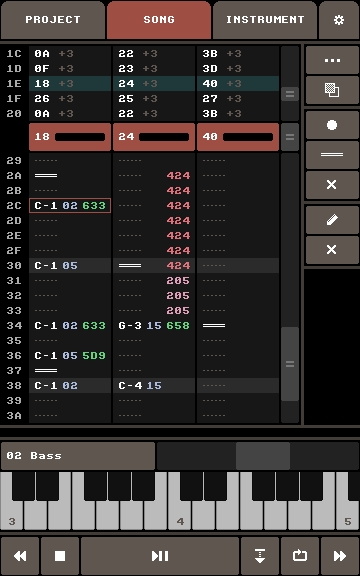
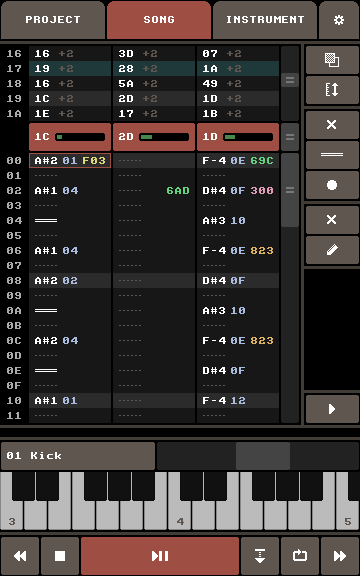
re-arrange buttons in song and instr view

diff --git a/src/song_view.cpp b/src/song_view.cpp
@@ -655,6 +655,17 @@ void draw() {
                 }
             }
         }
+        gui::disabled(!(len > 1 && pos < len));
+        if (gui::button(gui::Icon::DeleteRow)) {
+            for (auto& order : g_song.song_order) {
+                order[pos] = {};
+                std::rotate(order.begin() + pos, order.begin() + pos + 1, order.end());
+            }
+            --len;
+            if (pos > 0 && g_song.song_loop > pos) --g_song.song_loop;
+            if (g_song.song_loop >= len) g_song.song_loop = len - 1;
+            if (pos >= len) --pos;
+        }
 
         gui::disabled(!(len < gt::MAX_SONG_ROWS && pos <= len));
         if (gui::button(gui::Icon::AddRowAbove)) {
@@ -673,17 +684,6 @@ void draw() {
             }
             if (g_song.song_loop >= pos) ++g_song.song_loop;
             ++len;
-        }
-        gui::disabled(!(len > 1 && pos < len));
-        if (gui::button(gui::Icon::DeleteRow)) {
-            for (auto& order : g_song.song_order) {
-                order[pos] = {};
-                std::rotate(order.begin() + pos, order.begin() + pos + 1, order.end());
-            }
-            --len;
-            if (pos > 0 && g_song.song_loop > pos) --g_song.song_loop;
-            if (g_song.song_loop >= len) g_song.song_loop = len - 1;
-            if (pos >= len) --pos;
         }
         gui::disabled(g_song.song_loop == g_cursor_song_row);
         if (gui::button(gui::Icon::JumpBack)) {
@@ -723,6 +723,7 @@ void draw() {
     // pattern edit
     static std::array<gt::Pattern, 3> pattern_copy_buffer = {};
     static uint8_t                    pattern_copy_flags  = 0;
+    enum { PCF_NOTE = 1, PCF_COMMAND = 2 };
 
     gt::Pattern& patt = g_song.patterns[patt_nums[g_cursor_chan]];
     if (g_edit_mode == EditMode::Pattern && g_cursor_pattern_row < patt.len) {
@@ -735,11 +736,11 @@ void draw() {
 
                 for (int i = 0; i < src.len; ++i) {
                     if (g_cursor_pattern_row + i >= dst.len) break;
-                    if (pattern_copy_flags & 1) {
+                    if (pattern_copy_flags & PCF_NOTE) {
                         dst.rows[g_cursor_pattern_row + i].note  = src.rows[i].note;
                         dst.rows[g_cursor_pattern_row + i].instr = src.rows[i].instr;
                     }
-                    if (pattern_copy_flags & 2) {
+                    if (pattern_copy_flags & PCF_COMMAND) {
                         dst.rows[g_cursor_pattern_row + i].command = src.rows[i].command;
                         dst.rows[g_cursor_pattern_row + i].data    = src.rows[i].data;
                     }
@@ -802,21 +803,28 @@ void draw() {
 
         gt::PatternRow& row  = patt.rows[g_cursor_pattern_row];
         // note edit buttons
-        if (gui::button(gui::Icon::Record, g_recording)) {
-            g_recording = !g_recording;
-        }
-        if (gui::button(row.note != gt::KEYOFF ? "\x0a\x0b\x0c" : "\x0d\x0e\x0f")) {
-            row.note  = row.note != gt::KEYOFF ? gt::KEYOFF : gt::KEYON;
-            row.instr = 0;
-        }
         gui::disabled(row.note == gt::REST);
         if (gui::button(gui::Icon::X)) {
             row.note  = gt::REST;
             row.instr = 0;
         }
         gui::disabled(false);
+        if (gui::button(row.note != gt::KEYOFF ? "\x0a\x0b\x0c" : "\x0d\x0e\x0f")) {
+            row.note  = row.note != gt::KEYOFF ? gt::KEYOFF : gt::KEYON;
+            row.instr = 0;
+        }
+        if (gui::button(gui::Icon::Record, g_recording)) {
+            g_recording = !g_recording;
+        }
         gui::separator();
+
         // command edit buttons
+        gui::disabled(row.command == 0);
+        if (gui::button(gui::Icon::X)) {
+            row.command = 0;
+            row.data = 0;
+        }
+        gui::disabled(false);
         if (gui::button(gui::Icon::Edit)) {
             command_edit::init(command_edit::Location::Pattern, row.command, row.data, [&row](uint8_t cmd, uint8_t data) {
                 row.command = cmd;
@@ -830,13 +838,6 @@ void draw() {
             piano::set_instrument(row.data);
             instrument_view::select_table(row.command - gt::CMD_SETWAVEPTR);
         }
-
-        gui::disabled(row.command == 0);
-        if (gui::button(gui::Icon::X)) {
-            row.command = 0;
-            row.data = 0;
-        }
-        gui::disabled(false);
         gui::separator();
 
 
@@ -878,7 +879,7 @@ void draw() {
         // copy all
         if (gui::button(gui::Icon::Copy)) {
             copy_to_pattern_buffer();
-            pattern_copy_flags = 3;
+            pattern_copy_flags = PCF_NOTE | PCF_COMMAND;
         }
         // delete
         if (gui::button(gui::Icon::X)) {
@@ -891,6 +892,23 @@ void draw() {
             }
         }
         gui::separator();
+
+        // copy notes
+        if (gui::button(gui::Icon::Copy)) {
+            copy_to_pattern_buffer();
+            pattern_copy_flags = PCF_NOTE;
+        }
+        // delete notes
+        if (gui::button(gui::Icon::X)) {
+            for (int c = mark_chan_min; c <= mark_chan_max; ++c) {
+                gt::Pattern& patt = g_song.patterns[patt_nums[c]];
+                for (int i = mark_row_min; i <= mark_row_max; ++i) {
+                    if (i >= patt.len) break;
+                    patt.rows[i].note  = gt::REST;
+                    patt.rows[i].instr = 0;
+                }
+            }
+        }
 
         // transpose up
         if (gui::button("\x09\x10")) {
@@ -928,24 +946,24 @@ void draw() {
             }
         }
 
-        // copy notes
+        gui::separator();
+
+        // copy command
         if (gui::button(gui::Icon::Copy)) {
             copy_to_pattern_buffer();
-            pattern_copy_flags = 1;
+            pattern_copy_flags = PCF_COMMAND;
         }
-        // delete notes
+        // delete command
         if (gui::button(gui::Icon::X)) {
             for (int c = mark_chan_min; c <= mark_chan_max; ++c) {
                 gt::Pattern& patt = g_song.patterns[patt_nums[c]];
                 for (int i = mark_row_min; i <= mark_row_max; ++i) {
                     if (i >= patt.len) break;
-                    patt.rows[i].note  = gt::REST;
-                    patt.rows[i].instr = 0;
+                    patt.rows[i].command = 0;
+                    patt.rows[i].data    = 0;
                 }
             }
         }
-        gui::separator();
-
         // edit command
         if (gui::button(gui::Icon::Edit)) {
             gt::Pattern const&    patt = g_song.patterns[patt_nums[mark_chan_min]];
@@ -960,22 +978,6 @@ void draw() {
                     }
                 }
             });
-        }
-        // copy command
-        if (gui::button(gui::Icon::Copy)) {
-            copy_to_pattern_buffer();
-            pattern_copy_flags = 2;
-        }
-        // delete command
-        if (gui::button(gui::Icon::X)) {
-            for (int c = mark_chan_min; c <= mark_chan_max; ++c) {
-                gt::Pattern& patt = g_song.patterns[patt_nums[c]];
-                for (int i = mark_row_min; i <= mark_row_max; ++i) {
-                    if (i >= patt.len) break;
-                    patt.rows[i].command = 0;
-                    patt.rows[i].data    = 0;
-                }
-            }
         }
         gui::separator();
     }

diff --git a/src/instrument_view.cpp b/src/instrument_view.cpp
@@ -738,8 +738,24 @@ void draw() {
     int num_free_rows = gt::MAX_TABLELEN - g_song.get_table_length(g_table);
     if (g_cursor_select == CursorSelect::Table) {
         gui::cursor({ app::CANVAS_WIDTH - 55, cursor.y });
-
         gui::item_size({ 55, app::BUTTON_HEIGHT });
+
+        gui::disabled(g_cursor_row >= len);
+        if (gui::button(gui::Icon::DeleteRow)) {
+            delete_table_row(g_table, start_row + g_cursor_row);
+            --len;
+            --end_row;
+            if (len == 0) {
+                // delete jump row
+                delete_table_row(g_table, start_row);
+            }
+            else {
+                // clamp jump pointer
+                auto& loop = rtable[end_row];
+                if (loop > 0) loop = clamp<int>(loop, start_row + 1, end_row);
+                g_cursor_row = std::min(g_cursor_row, len - 1);
+            }
+        }
         gui::disabled(num_free_rows <= 0 + (len == 0));
         if (gui::button(gui::Icon::AddRowAbove)) {
             uint8_t cursor_lval = 0;
@@ -778,25 +794,9 @@ void draw() {
             ltable[start_row + g_cursor_row] = cursor_lval;
             rtable[start_row + g_cursor_row] = cursor_rval;
         }
-
-        gui::disabled(g_cursor_row >= len);
-        if (gui::button(gui::Icon::DeleteRow)) {
-            delete_table_row(g_table, start_row + g_cursor_row);
-            --len;
-            --end_row;
-            if (len == 0) {
-                // delete jump row
-                delete_table_row(g_table, start_row);
-            }
-            else {
-                // clamp jump pointer
-                auto& loop = rtable[end_row];
-                if (loop > 0) loop = clamp<int>(loop, start_row + 1, end_row);
-                g_cursor_row = std::min(g_cursor_row, len - 1);
-            }
-        }
-        bool is_loop = rtable[end_row] == start_row + g_cursor_row + 1;
+        gui::disabled(len == 0);
         if (gui::button(gui::Icon::JumpBack)) {
+            bool is_loop = rtable[end_row] == start_row + g_cursor_row + 1;
             if (is_loop) rtable[end_row] = 0;
             else rtable[end_row] = start_row + g_cursor_row + 1;
         }
